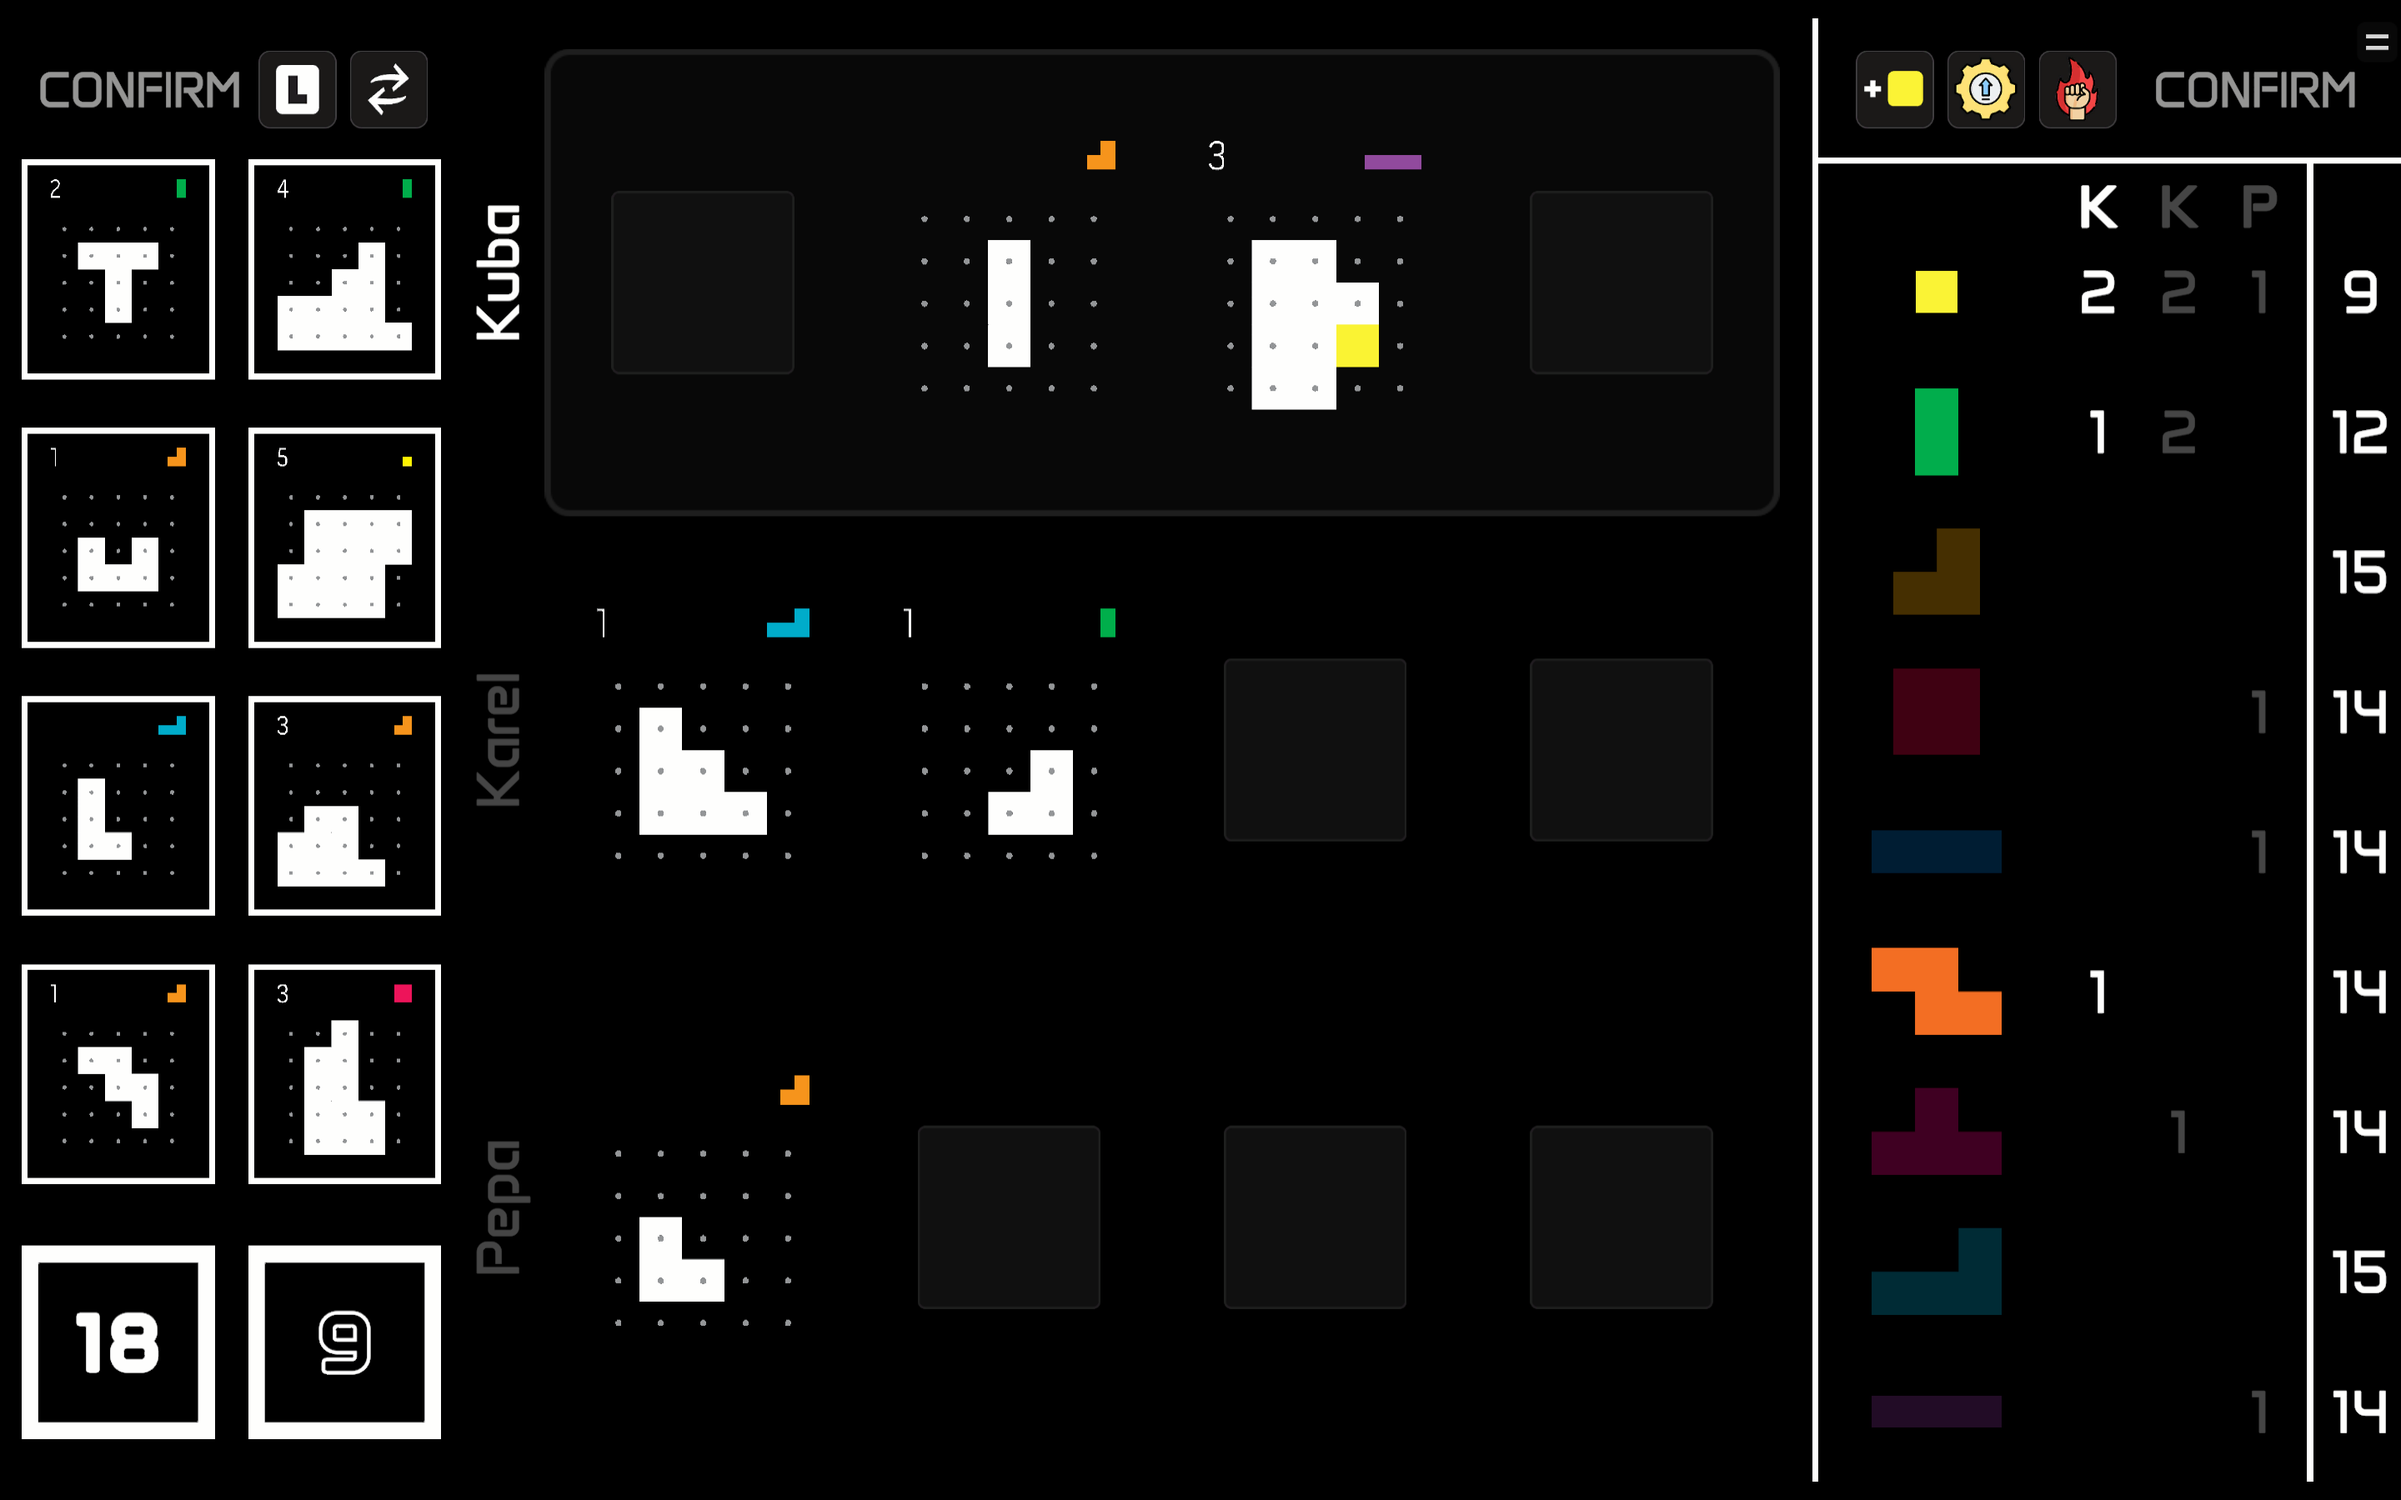
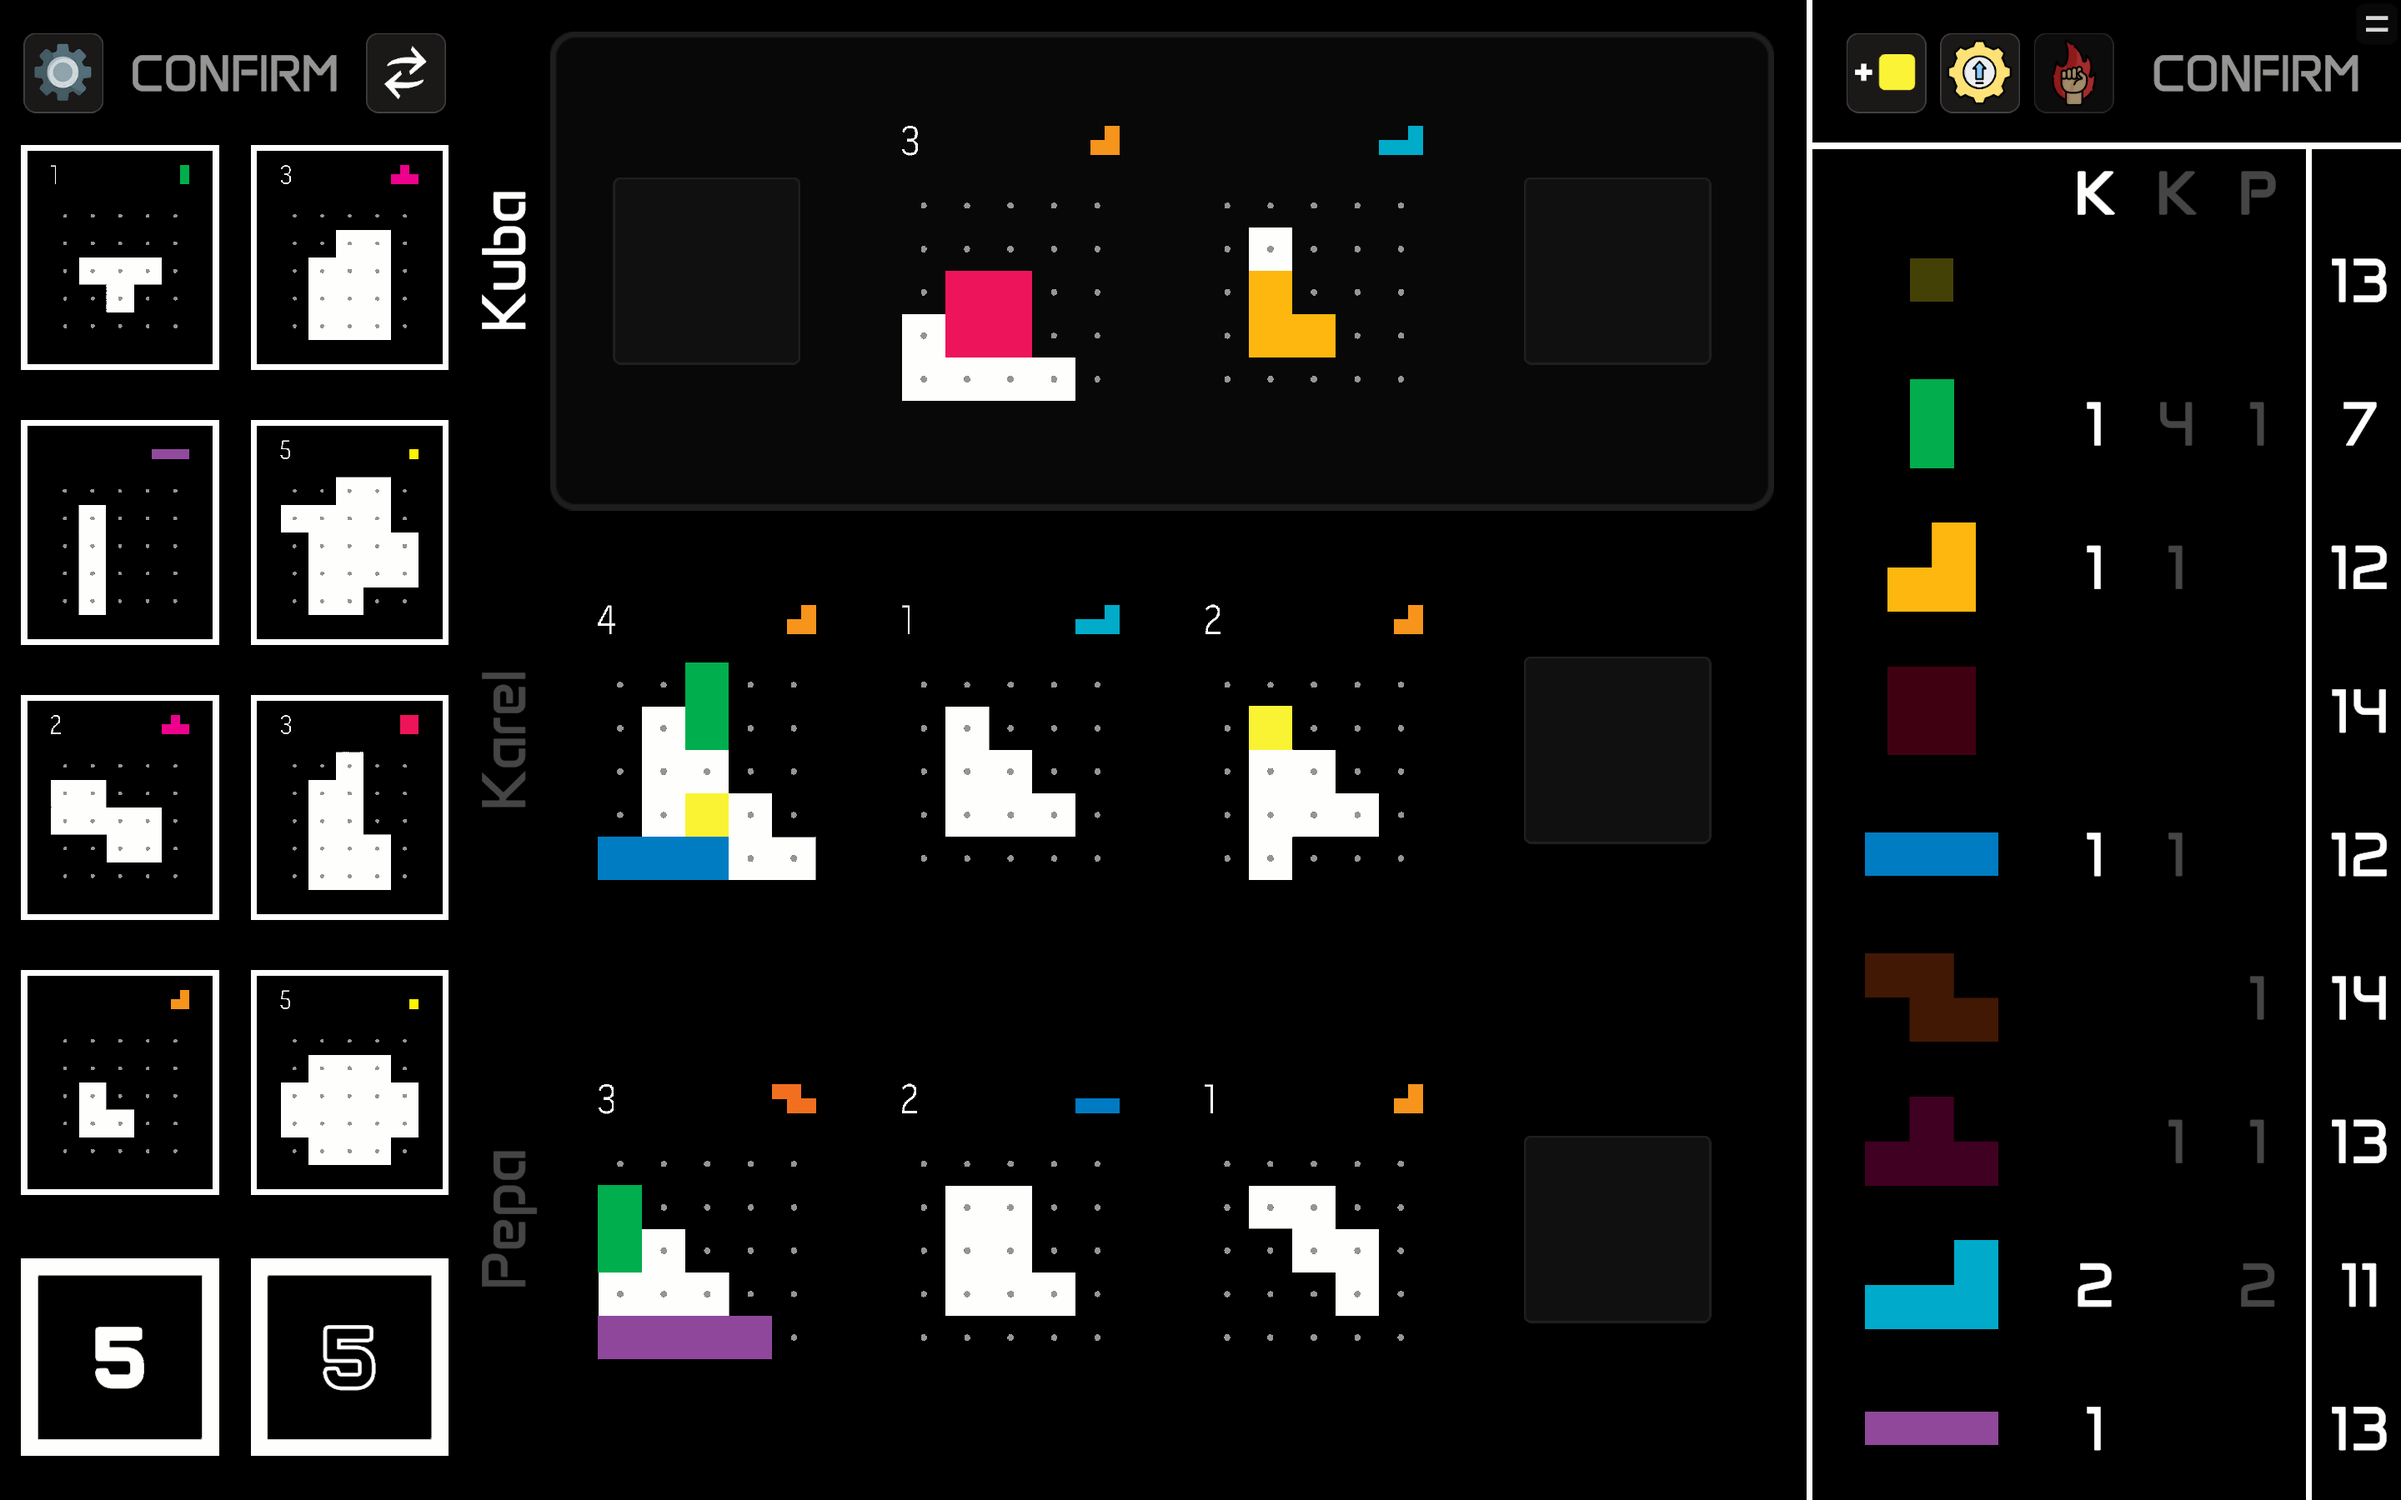
docs: update user guide

diff --git a/docs/UserDocs/index.md b/docs/UserDocs/index.md
@@ -33,11 +33,19 @@ The order in which the players will take turns is determined by the order in whi
 | Confirm action / Select reward | Click `CONFIRM` button, `Enter`, `Ctrl`                      |
 | Cancel action / Clear board    | Start a different action, `TAB`, `Backspace`, `C`            |
 | Place piece to puzzle          | Left click on it, `Space`                                    |
-| Rotate last selected piece     | Mouse wheel, up/down arrows                                  |
-| Flip last selected piece       | Right click, left/right arrows                               |
+| Rotate last selected piece     | Mouse wheel (while mouse over your row), up/down arrows      |
+| Flip last selected piece       | Right click (while mouse over your row), left/right arrows   |
 | Return piece to collection     | Move it outside of your row, middle mouse button click on it |
-| Open/Close pause menu          | `ESC`, `P`                                                   |
+| Open/Close pause menu          | Click pause menu button (top-left), `ESC`, `P`               |
 | Exit/Enter full-screen         | `F11`                                                        |
+
+### Touch Controls
+
+| Action                     | Controls                            |
+| -------------------------- | ----------------------------------- |
+| Place piece to puzzle      | Tap on it with one finger           |
+| Rotate last selected piece | Move with two fingers (in your row) |
+| Flip last selected piece   | Double tap (in your row)            |
 
 ## Where is what?
 
@@ -57,13 +65,21 @@ Each player has their own row in the middle of the board. The row is annotated w
 
 Each player has a column showing how many pieces of each type they have. On the very right is a column showing the number of pieces left in the shared reserve. The column of the current player is highlighted, alongside the pieces they own.
 
-The current player in the picture above is Kuba. He has 2 yellow pieces, 1 green piece and 1 orange piece. You can also see that there are only 9 yellow pieces left in the shared reserve.
+### Example
+
+In the picture above:
+
+- Both the white and black decks contain 5 puzzles.
+- The current player is **Kuba** and he is currently working on two puzzles.
+- Kuba has 1 green piece, 1 orange piece, 1 blue piece, 2 cyan pieces and 1 purple piece.
+- Karel has 4 green pieces, 1 orange piece, 1 blue piece and 1 pink piece.
+- There are 7 green pieces left in the shared reserve.
 
 ### Pause Menu
 
 ![Pause Menu](./images/PauseMenu.png)
 
-The pause menu is opened by pressing `ESC` or `P` and it contains a lot of useful information. It shows who is the current player, how many actions he has left in this turn, and what is the current game phase:
+The pause menu is opened by clicking the button in the top-left corner or by pressing `ESC` or `P`. It contains a lot of useful information. It shows who is the current player, how many actions he has left in this turn, and what is the current game phase:
 
 - Normal
 - Next round is final
@@ -100,6 +116,10 @@ To plan ahead, you can lock in as many pieces as you want without confirming the
 "%}
 
 ![Placing Pieces](./images/Place.gif)
+
+{% include note.html content="
+When rotating or flipping a piece, your mouse must be over your row. If you are using a touch device, you can rotate the piece by moving two fingers in your row, or flip it by double tapping in your row.
+"%}
 
 When you complete a puzzle, you will get back the pieces you used to solve it, plus a new piece as a reward. To take the new piece, click on it and then click on the **Select Reward** button (or press `Enter` or `Ctrl`).
 

diff --git a/README.md b/README.md
@@ -8,7 +8,9 @@ This project is a digital version of the game that can be played by both human a
 
 ## [Play Project L Online](https://couleslaw.github.io/Project-L/play/)
 
-Experience the game in your browser. Please note: AI players are not available in this version.
+Experience the game in your browser ━ both on your computer or tablet.
+
+Please note that AI players are not available in this version.
 
 ## [Download Project L](https://github.com/Couleslaw/Project-L/releases/latest)
 
